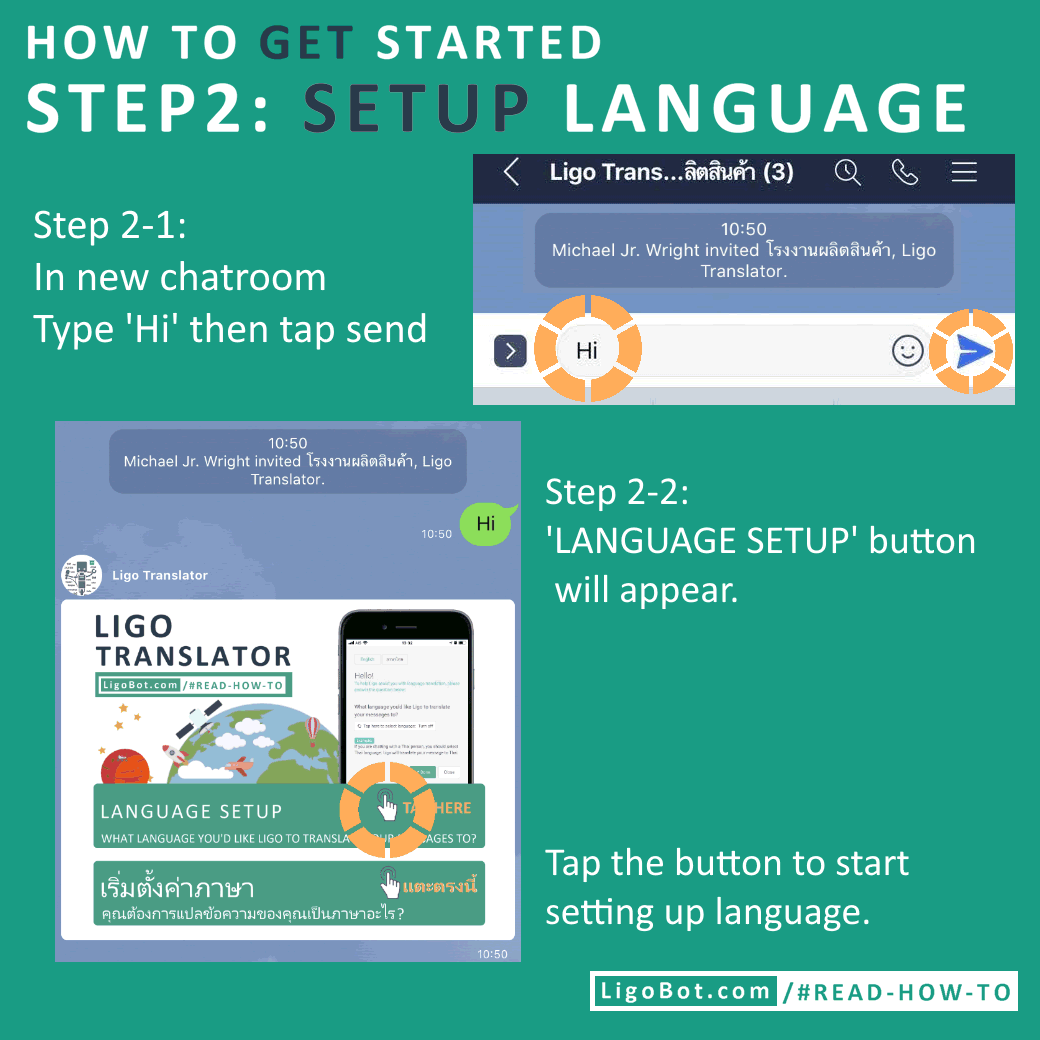
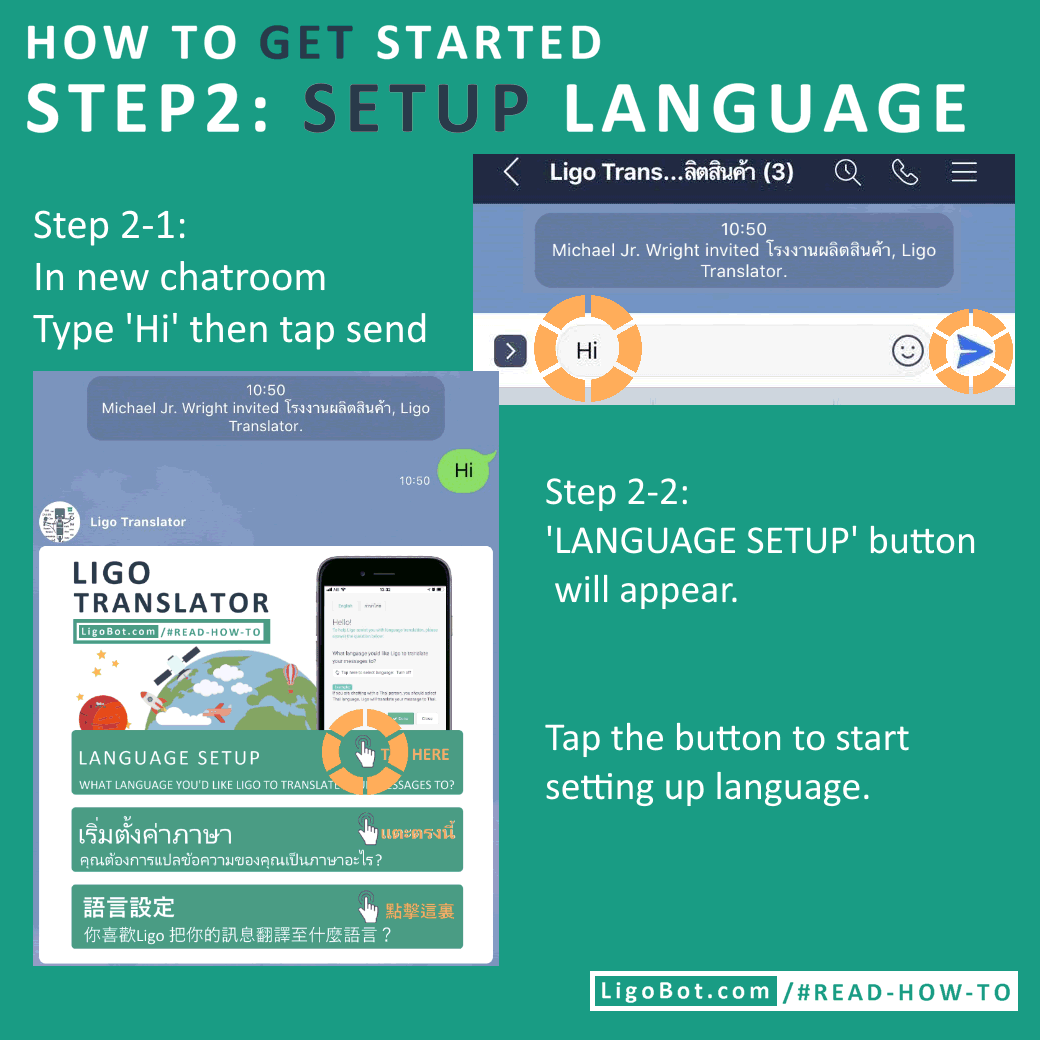
add chinese support

Changed region(s): [[0.0308, 0.3385, 0.8615, 0.9538]]

diff --git a/src/app/services/language.service.ts b/src/app/services/language.service.ts
@@ -3,7 +3,7 @@ import { Injectable } from '@angular/core';
 import { SupportedLanguage } from '../models/supported-language.model'
 
 const supportedLanguages: SupportedLanguage[] = [
-  { languageCode: 'na', displayNameEN: 'Turn off', displayNameTH: 'ปิด', displayNameJA: '消す', displayNameZH: '关掉', nativeName: '', sortOrder: 7 },
+  { languageCode: 'na', displayNameEN: 'Turn off', displayNameTH: 'ปิด', displayNameJA: '消す', displayNameZH: '關閉', nativeName: '', sortOrder: 7 },
   { languageCode: 'en', displayNameEN: 'English', displayNameTH: 'อังกฤษ', displayNameJA: '英語', displayNameZH: '英语', nativeName: 'English', sortOrder: 5 },
   { languageCode: 'ja', displayNameEN: 'Japanese', displayNameTH: 'ญี่ปุ่น', displayNameJA: '日本語', displayNameZH: '日语', nativeName: '日本語', sortOrder: 4 },
   { languageCode: 'th', displayNameEN: 'Thai', displayNameTH: 'ไทย', displayNameJA: 'タイ語', displayNameZH: '泰语', nativeName: 'ไทย', sortOrder: 3 },

diff --git a/src/app/components/group-detail/group-detail.component.html b/src/app/components/group-detail/group-detail.component.html
@@ -26,6 +26,9 @@
                       <button type="button" class="btn btn-outline btn-default mr-1 mb-3" style="width:80px;"
                               [ngClass]="{'btn-primary': user.language === 'th'}"
                               (click)="changeLanguage('th')">ภาษาไทย</button>
+                      <button type="button" class="btn btn-outline btn-default mr-1 mb-3" style="width:90px;"
+                              [ngClass]="{'btn-primary': user.language === 'zh'}"
+                              (click)="changeLanguage('zh')">中文(繁体)</button>
                     </div>
                   </div>
 

diff --git a/src/app/services/line.liff.service.ts b/src/app/services/line.liff.service.ts
@@ -86,6 +86,7 @@ export class LineLIFFService {
           // when language cannot be obtained or language is not supported, set default language to English
           code = (code !== 'en'
             && code !== 'th'
+            && code !== 'zh'
             //TODO: uncomment when ready to support Japanese and Chinese
             //&& code !== 'ja'
             //&& code !== 'zh'

diff --git a/src/app/components/group-detail/group-detail.component.ts b/src/app/components/group-detail/group-detail.component.ts
@@ -166,6 +166,9 @@ export class GroupDetailComponent {
           case 'th':
             message = 'แสดงการตั้งค่าภาษาของฉัน';
             break;
+          case 'zh':
+            message = '告訴我我的語言設置';
+            break;
           default:
             message = 'show me my language setup.';
             break;
